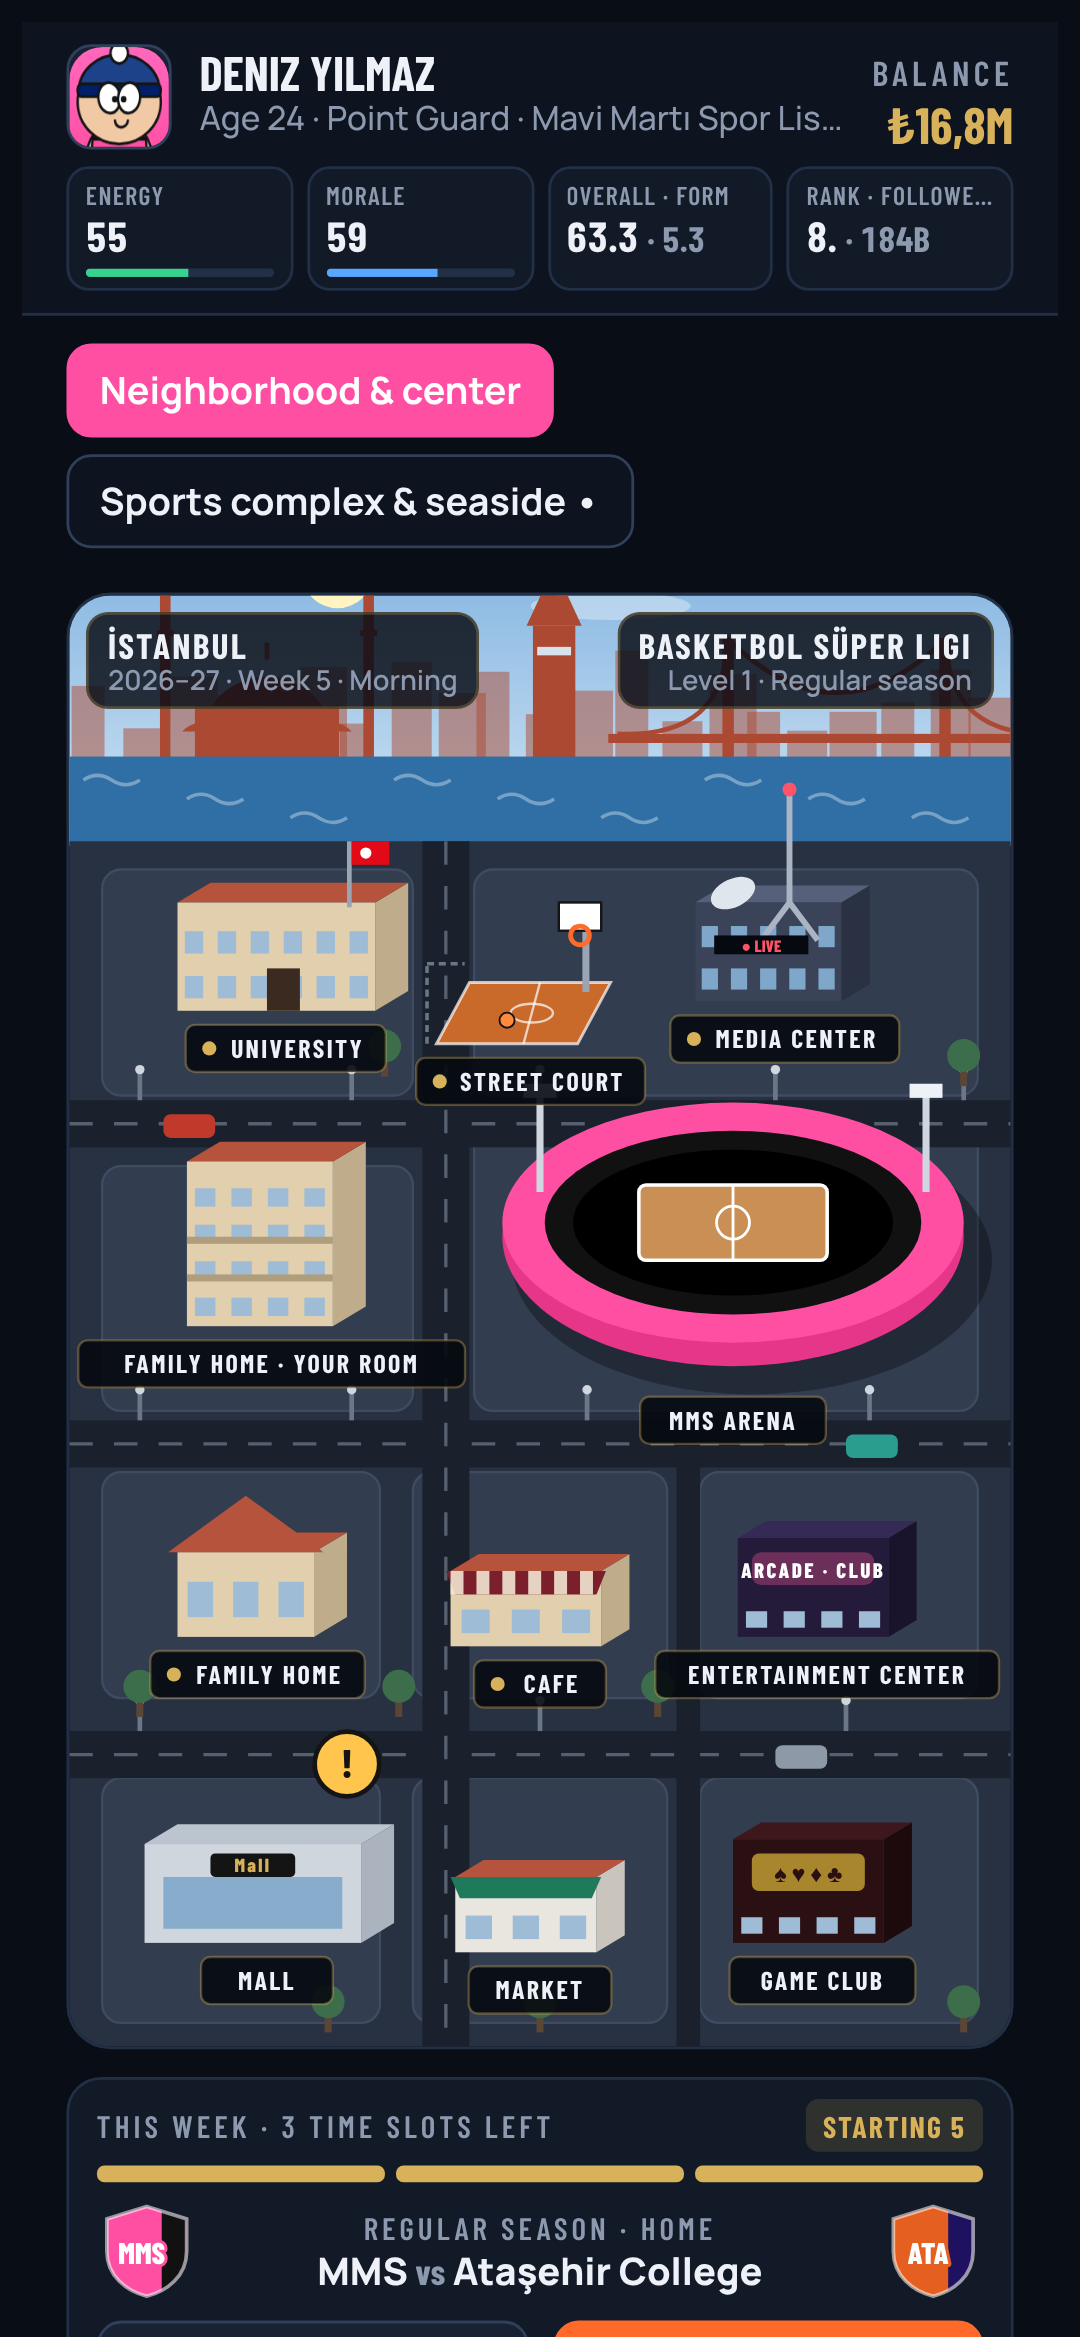
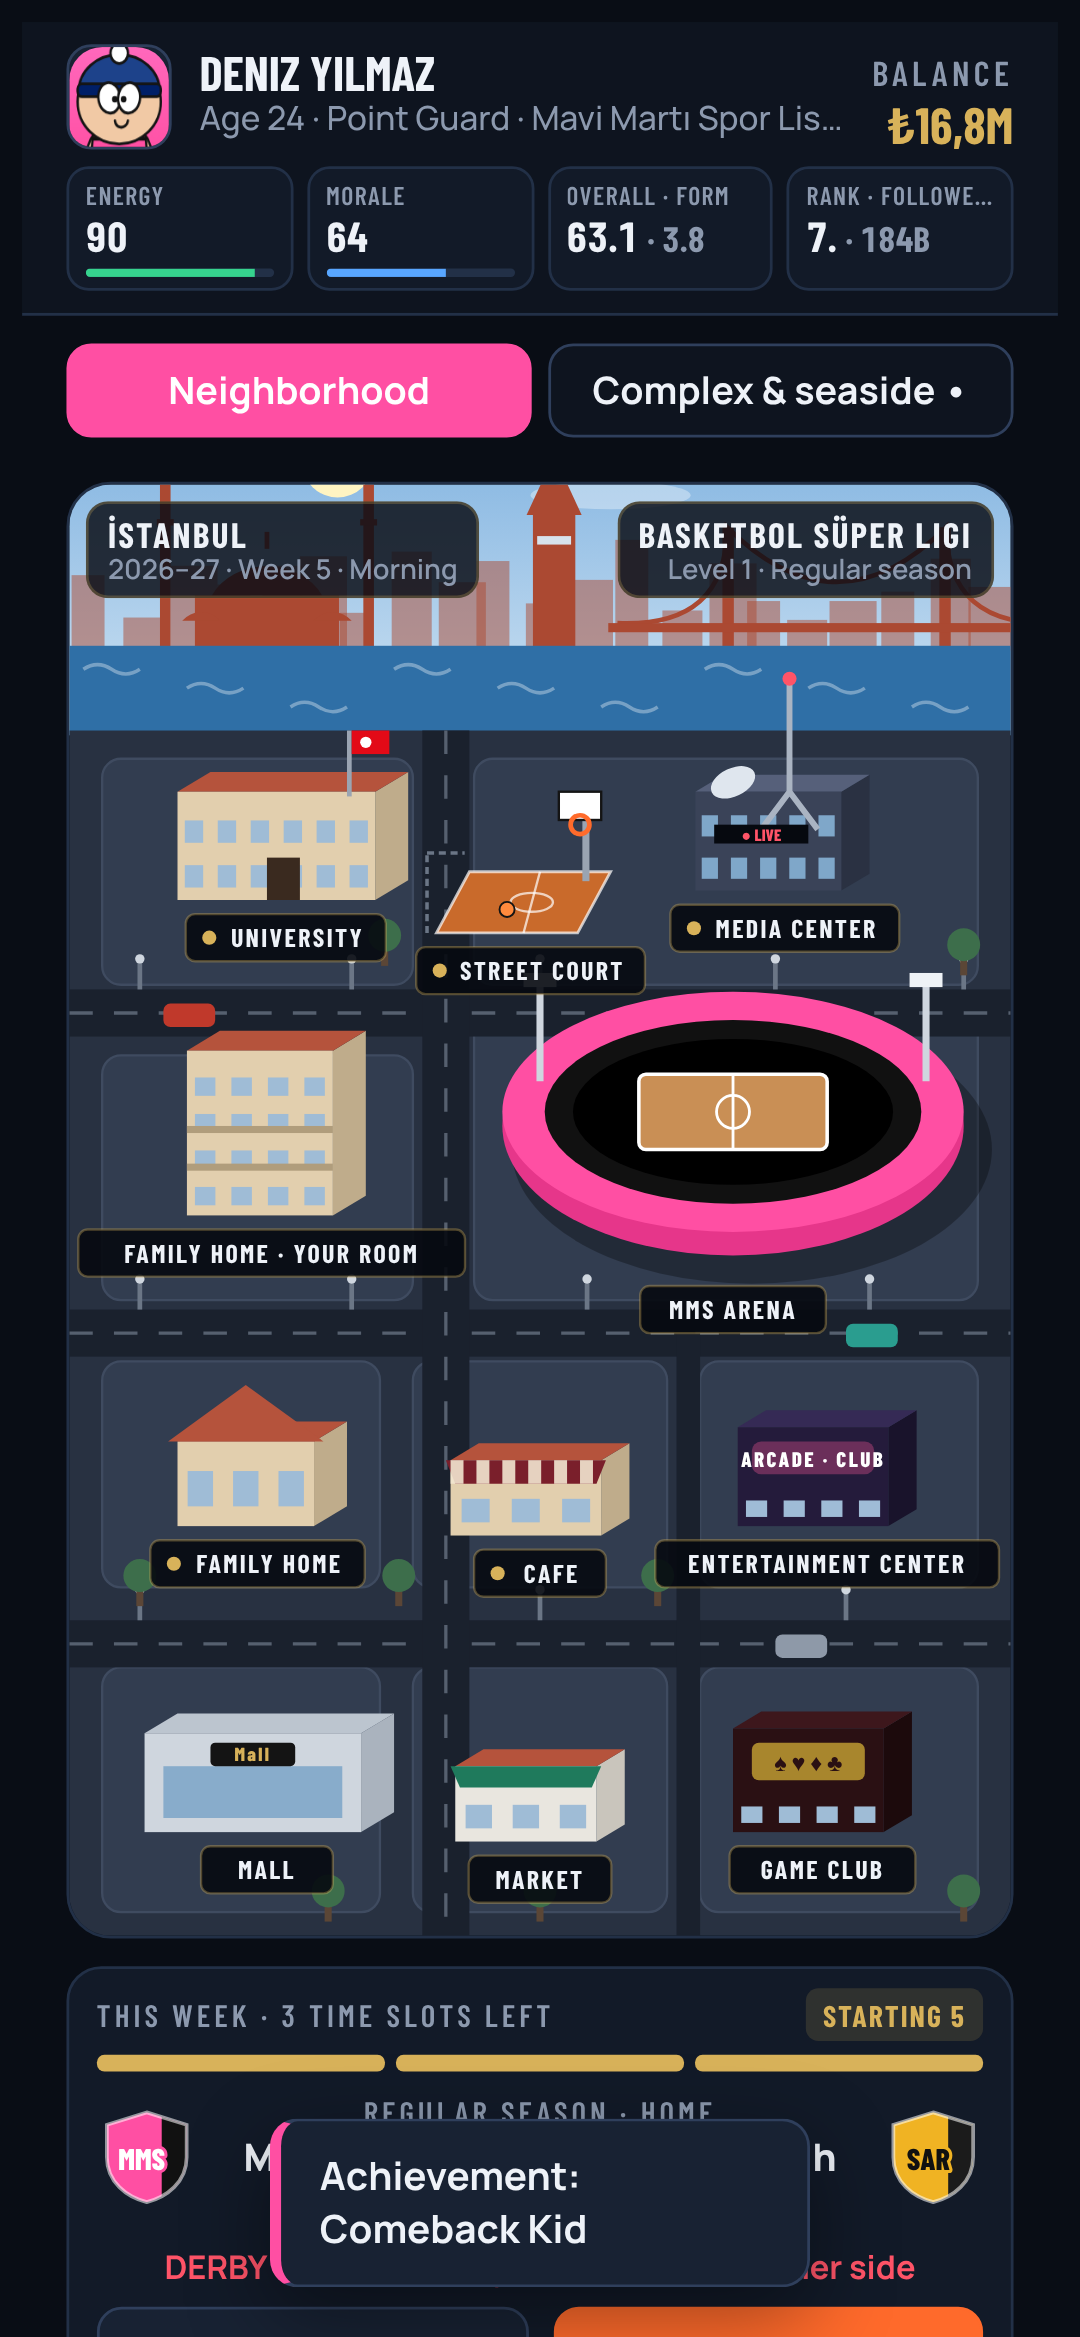
Kalanlar: sezon sonu maçından sonra rastgele olay yok, son dakikada savunma seçince ikinci savunma kartı yok, bildirimler panel açıkken üstte ve tıklamayı engellemez, harita sekmeleri tek satır
Claude-Session: https://claude.ai/code/session_015W1m9N9jYtsqEvkQ7HymLs

diff --git a/src/engine.js b/src/engine.js
@@ -53,7 +53,8 @@ export function modeChoice() {
   if (window.__SIM) return Promise.resolve("key");
   return new Promise(r => {
     const cur = S.matchMode || ""; // ilk maçta "son seçimin" rozeti yok
-    $("#mview").innerHTML = `${late.preMatchHTML()}<div class="card sit"><div class="eyebrow">${$t("engine.9")}</div><h2>${$t("engine.10")}</h2>
+    $("#mview").innerHTML =
+      `${late.preMatchHTML()}<div class="card sit"><div class="eyebrow">${$t("engine.9")}</div><h2>${$t("engine.10")}</h2>
      <div class="choices">
       <button class="choice" data-m="full"><span class="ct">${$t("engine.11")}</span><span class="cd">${$t("engine.12")}</span><span class="od ${cur === "full" ? "e" : "i"}">${cur === "full" ? $t("engine.6") : $t("engine.7")}</span></button>
       <button class="choice" data-m="key"><span class="ct">${$t("engine.13")}</span><span class="cd">${$t("engine.14")}</span><span class="od ${cur === "key" ? "e" : "i"}">${cur === "key" ? $t("engine.6") : $t("engine.8")}</span></button>
@@ -302,10 +303,13 @@ export async function playMatch(ctx) {
     const close = Math.abs(M.us - M.them) <= 6,
       clutch = t > TOTAL - 120 && close;
     // takım arkadaşlarının sana pas verme isteği (takım ilişkisi + kadro uyumu): hücumda topla daha sık buluşursun
-    const involve = (AUTO ? 0.08 : 0.1) + (clutch ? 0.35 : 0) + (M.tac === "ball" ? 0.05 : 0) + (ourBall ? late.passTrustBonus() : 0); // kendin oynarken biraz daha çok karar anı
+    const involve =
+      (AUTO ? 0.08 : 0.1) + (clutch ? 0.35 : 0) + (M.tac === "ball" ? 0.05 : 0) + (ourBall ? late.passTrustBonus() : 0); // kendin oynarken biraz daha çok karar anı
     const before = [M.us, M.them];
     const ap0 = M.autoPts || 0;
-    if (on && Math.random() < involve) {
+    const skipMoment = M.lcTrail;
+    M.lcTrail = false;
+    if (on && !skipMoment && Math.random() < involve) {
       if (ourBall) M.touches = (M.touches || 0) + 1;
       await moment(ourBall, clutch);
     } else {
@@ -377,7 +381,11 @@ export async function playMatch(ctx) {
   function simPossession(us) {
     const tacU = M.tac === "tempo" ? 1.06 : M.tac === "def" ? 0.97 : 1,
       tacT = M.tac === "def" ? 0.93 : M.tac === "tempo" ? 1.03 : 1;
-    const p = clamp(ppp * (us ? (ourStr / opp.str) * tacU * (on ? 1 : 0.97) : (opp.str / ourStr) * tacT) * late.possMod(us), 0.15, 0.85);
+    const p = clamp(
+      ppp * (us ? (ourStr / opp.str) * tacU * (on ? 1 : 0.97) : (opp.str / ourStr) * tacT) * late.possMod(us),
+      0.15,
+      0.85
+    );
     const starTurn = !us && Math.random() < 0.3, // rakip yıldızın payı: akışta da onun adı geçer
       who = us ? pick(mates) : starTurn ? foes[0] : pick(foes.slice(1)),
       team = us ? S.team.short : opp.short;

diff --git a/src/clutch.js b/src/clutch.js
@@ -43,7 +43,9 @@ export function timeoutCard(el) {
       ["def", $t("engine.67"), $t("cl.defD")],
       ["ball", $t("engine.68"), $t("cl.ballD")]
     ]
-      .map(([k, t, d]) => `<button class="choice" data-to="${k}"><span class="ct">${t}</span><span class="cd">${d}</span></button>`)
+      .map(
+        ([k, t, d]) => `<button class="choice" data-to="${k}"><span class="ct">${t}</span><span class="cd">${d}</span></button>`
+      )
       .join("")}</div></div>`;
     $$("[data-to]").forEach(
       b =>
@@ -82,11 +84,14 @@ export function runTrack(us, scored) {
 /** Son dakika kararı; "foul" | "hold" | null */
 export function lateCall(ourBall, diff, el, secLeft) {
   if (!M) return Promise.resolve(null);
+  M.lcTrail = false;
   let kind = null;
   if (secLeft < 8) return Promise.resolve(null); // birkaç saniye kala karar anlamsız
-  if (!ourBall && diff <= -3 && diff >= -6) kind = "trail"; // 1-2 sayı gerideyken savunma açıkça doğru
+  if (!ourBall && diff <= -3 && diff >= -6)
+    kind = "trail"; // 1-2 sayı gerideyken savunma açıkça doğru
   else if (ourBall && diff >= 1 && diff <= 3 && secLeft <= 35) kind = "lead";
   if (!kind) return Promise.resolve(null);
+  M.lcTrail = kind === "trail"; // savunmayı seçtiysen aynı hücum için ikinci bir savunma kartı çıkmaz
   late.buzz && late.buzz(25);
   const opts =
     kind === "trail"
@@ -100,7 +105,9 @@ export function lateCall(ourBall, diff, el, secLeft) {
         ];
   return new Promise(res => {
     el.innerHTML = `<div class="card sit"><div class="eyebrow">${$t(diff > 0 ? "cl.lateUp" : "cl.lateDown", { s: secLeft, n: Math.abs(diff) })}</div><h2>${$t(kind === "trail" ? "cl.trailH" : "cl.leadH")}</h2><div class="choices">${opts
-      .map(([k, t, d]) => `<button class="choice" data-lt="${k}"><span class="ct">${t}</span><span class="cd">${d}</span></button>`)
+      .map(
+        ([k, t, d]) => `<button class="choice" data-lt="${k}"><span class="ct">${t}</span><span class="cd">${d}</span></button>`
+      )
       .join("")}</div></div>`;
     $$("[data-lt]").forEach(
       b =>

diff --git a/index.html b/index.html
@@ -147,7 +147,8 @@ tr.me td{background:rgba(255,255,255,.05);font-weight:800}
 .big-num{font-family:var(--display);font-weight:800;font-size:2.4rem;line-height:1;font-variant-numeric:tabular-nums}
 .pill{display:inline-flex;align-items:center;font-family:var(--display);font-weight:700;letter-spacing:.8px;font-size:.75rem;text-transform:uppercase;border-radius:5px;padding:2px 7px;background:var(--card2);color:var(--muted)}
 .pill.w{background:rgba(54,211,142,.15);color:var(--good)} .pill.l{background:rgba(255,84,104,.15);color:var(--bad)} .pill.g{background:rgba(216,178,90,.15);color:var(--gold)}
-.toast{position:fixed;left:50%;bottom:calc(18px + env(safe-area-inset-bottom,0px));transform:translateX(-50%);background:var(--card2);border:1px solid var(--line2);border-left:4px solid var(--team);border-radius:10px;padding:10px 14px;font-weight:700;z-index:40;max-width:calc(100% - 32px);box-shadow:0 10px 30px rgba(0,0,0,.4)}
+.toast.top{top:calc(12px + env(safe-area-inset-top,0px));bottom:auto}
+.toast{pointer-events:none;position:fixed;left:50%;bottom:calc(18px + env(safe-area-inset-bottom,0px));transform:translateX(-50%);background:var(--card2);border:1px solid var(--line2);border-left:4px solid var(--team);border-radius:10px;padding:10px 14px;font-weight:700;z-index:40;max-width:calc(100% - 32px);box-shadow:0 10px 30px rgba(0,0,0,.4)}
 .say{background:var(--card2);border-radius:12px;padding:10px 12px;font-weight:600;font-size:.9rem;border-left:3px solid var(--team)}
 .who{display:grid;grid-template-columns:84px 1fr;gap:12px;align-items:start}
 .chapter{border-radius:16px;overflow:hidden;background:var(--card);border:1px solid var(--line)}

diff --git a/src/district.js b/src/district.js
@@ -19,9 +19,10 @@ export function districtTabsHTML() {
       (S.mapEv && S.mapEv.list
         ? S.mapEv.list.filter(e => !e.done && (IN2.includes(e.loc) ? "kompleks" : "merkez") !== d).length
         : 0) || 0;
-  return `<div class="opts" id="dist" style="margin-bottom:6px">${["merkez", "kompleks"]
+  return `<div class="opts" id="dist" style="margin-bottom:6px;flex-wrap:nowrap">${["merkez", "kompleks"]
     .map(
-      k => `<button class="opt ${d === k ? "on" : ""}" data-dist="${k}">${$t(`dist.${k}`)}${k !== d && n ? " •" : ""}</button>`
+      k =>
+        `<button class="opt ${d === k ? "on" : ""}" style="flex:1;min-width:0;white-space:nowrap;overflow:hidden;text-overflow:ellipsis;padding-left:8px;padding-right:8px" data-dist="${k}">${$t(`dist.${k}`)}${k !== d && n ? " •" : ""}</button>`
     )
     .join("")}</div>`;
 }

diff --git a/src/match.js b/src/match.js
@@ -486,7 +486,8 @@ export function afterMatch(win) {
   Bus.run("match:after", { win }, () => late.midweek(() => afterMatchFlow(win)));
 }
 export function afterMatchFlow(win) {
-  let next = () => endWeek();
+  const weekly = () => endWeek();
+  let next = weekly;
   if (S.phase === "regular" && S.week >= S.sched.length) {
     const st = standings(),
       rank = st.findIndex(r => r.key === S.team.key) + 1;
@@ -559,6 +560,7 @@ export function afterMatchFlow(win) {
       return chapter("tryout", () => maybeEvent(go));
     }
   }
+  if (next !== weekly) return next(); // sezon sonu / play-off: olay yok, geçiş panelleri yeterince kalabalık
   maybeEvent(next);
 }
 // window.__TEST.noEvents: duman testinde rastgele olaylar kapatılır

diff --git a/src/data.js b/src/data.js
@@ -105,7 +105,8 @@ export function toast(t) {
   if (typeof late.sfx === "function") late.sfx("notify");
   $$(".toast").forEach(x => x.remove());
   const d = document.createElement("div");
-  d.className = "toast";
+  // panel/maç ekranı açıkken alttaki düğmelerin üstüne binmesin
+  d.className = document.querySelector(".sheet, #adov, #mview") ? "toast top" : "toast";
   d.textContent = t;
   document.body.appendChild(d);
   setTimeout(() => d.remove(), 2600);

diff --git a/src/i18n/en.js b/src/i18n/en.js
@@ -933,8 +933,8 @@ export default {
   "fz.fxFans": "Fans +4",
   "fz.fxFans3": "Fans +3",
   "fz.fxMotive": "All attributes +4 this game",
-  "dist.merkez": "Neighborhood & center",
-  "dist.kompleks": "Sports complex & seaside",
+  "dist.merkez": "Neighborhood",
+  "dist.kompleks": "Complex & seaside",
   "dist.sahil": "SEASIDE · HARBOR AND ACADEMY COMING SOON",
   "mev.sub": "Event of the week",
   "mev.cost": "Costs no time slot, −5 energy.",

diff --git a/src/i18n/tr.js b/src/i18n/tr.js
@@ -932,8 +932,8 @@ export default {
   "fz.fxFans": "Taraftar +4",
   "fz.fxFans3": "Taraftar +3",
   "fz.fxMotive": "Bu maçta bütün nitelikler +4",
-  "dist.merkez": "Mahalle ve merkez",
-  "dist.kompleks": "Spor kompleksi ve sahil",
+  "dist.merkez": "Mahalle",
+  "dist.kompleks": "Kompleks ve sahil",
   "dist.sahil": "SAHİL · YAKINDA LİMAN VE AKADEMİ",
   "mev.sub": "Haftanın olayı",
   "mev.cost": "Zaman dilimi harcamaz, −5 enerji.",
